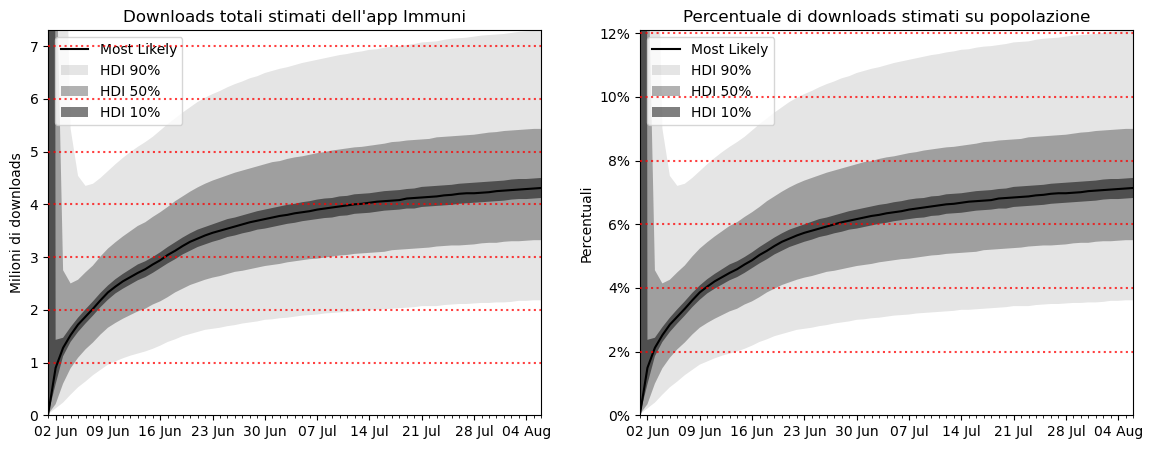
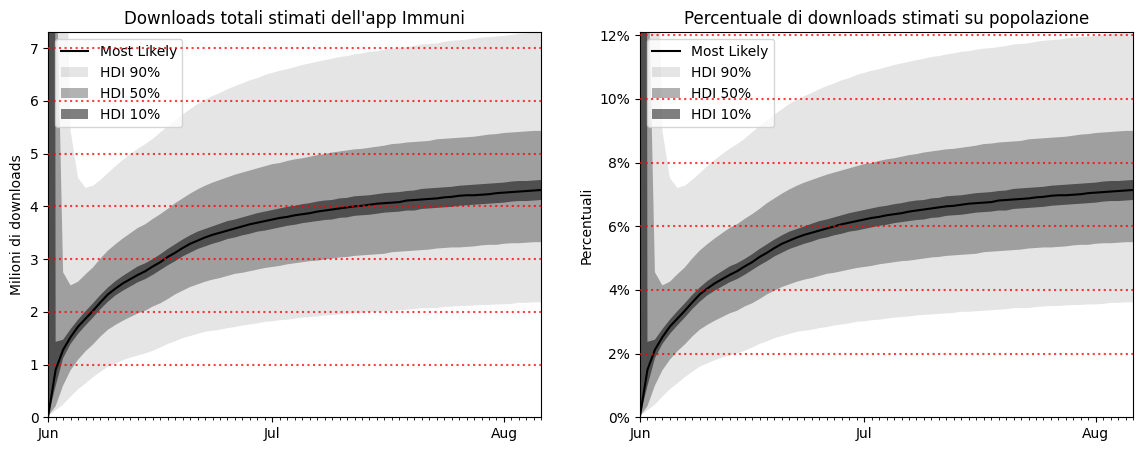
MonthLocator

diff --git a/immuni.py b/immuni.py
@@ -129,16 +129,16 @@ def plot(results):
 
     ax[0].set_title("Downloads totali stimati dell'app Immuni")
     ax[0].set_xlim(results.index[0], results.index[-1])
-    ax[0].xaxis.set_major_locator(mdates.WeekdayLocator())
-    ax[0].xaxis.set_major_formatter(mdates.DateFormatter('%d %b'))
+    ax[0].xaxis.set_major_locator(mdates.MonthLocator())
+    ax[0].xaxis.set_major_formatter(mdates.DateFormatter('%b'))
     ax[0].xaxis.set_minor_locator(mdates.DayLocator())
     ax[0].yaxis.set_major_formatter(million_formatter)
     ax[0].set_ylabel("Milioni di downloads")
 
     ax[1].set_title("Percentuale di downloads stimati su popolazione")
     ax[1].set_xlim(results.index[0], results.index[-1])
-    ax[1].xaxis.set_major_locator(mdates.WeekdayLocator())
-    ax[1].xaxis.set_major_formatter(mdates.DateFormatter('%d %b'))
+    ax[1].xaxis.set_major_locator(mdates.MonthLocator())
+    ax[1].xaxis.set_major_formatter(mdates.DateFormatter('%b'))
     ax[1].xaxis.set_minor_locator(mdates.DayLocator())
     ax[1].yaxis.set_major_formatter(percentage_formatter)
     ax[1].set_ylabel("Percentuali")
